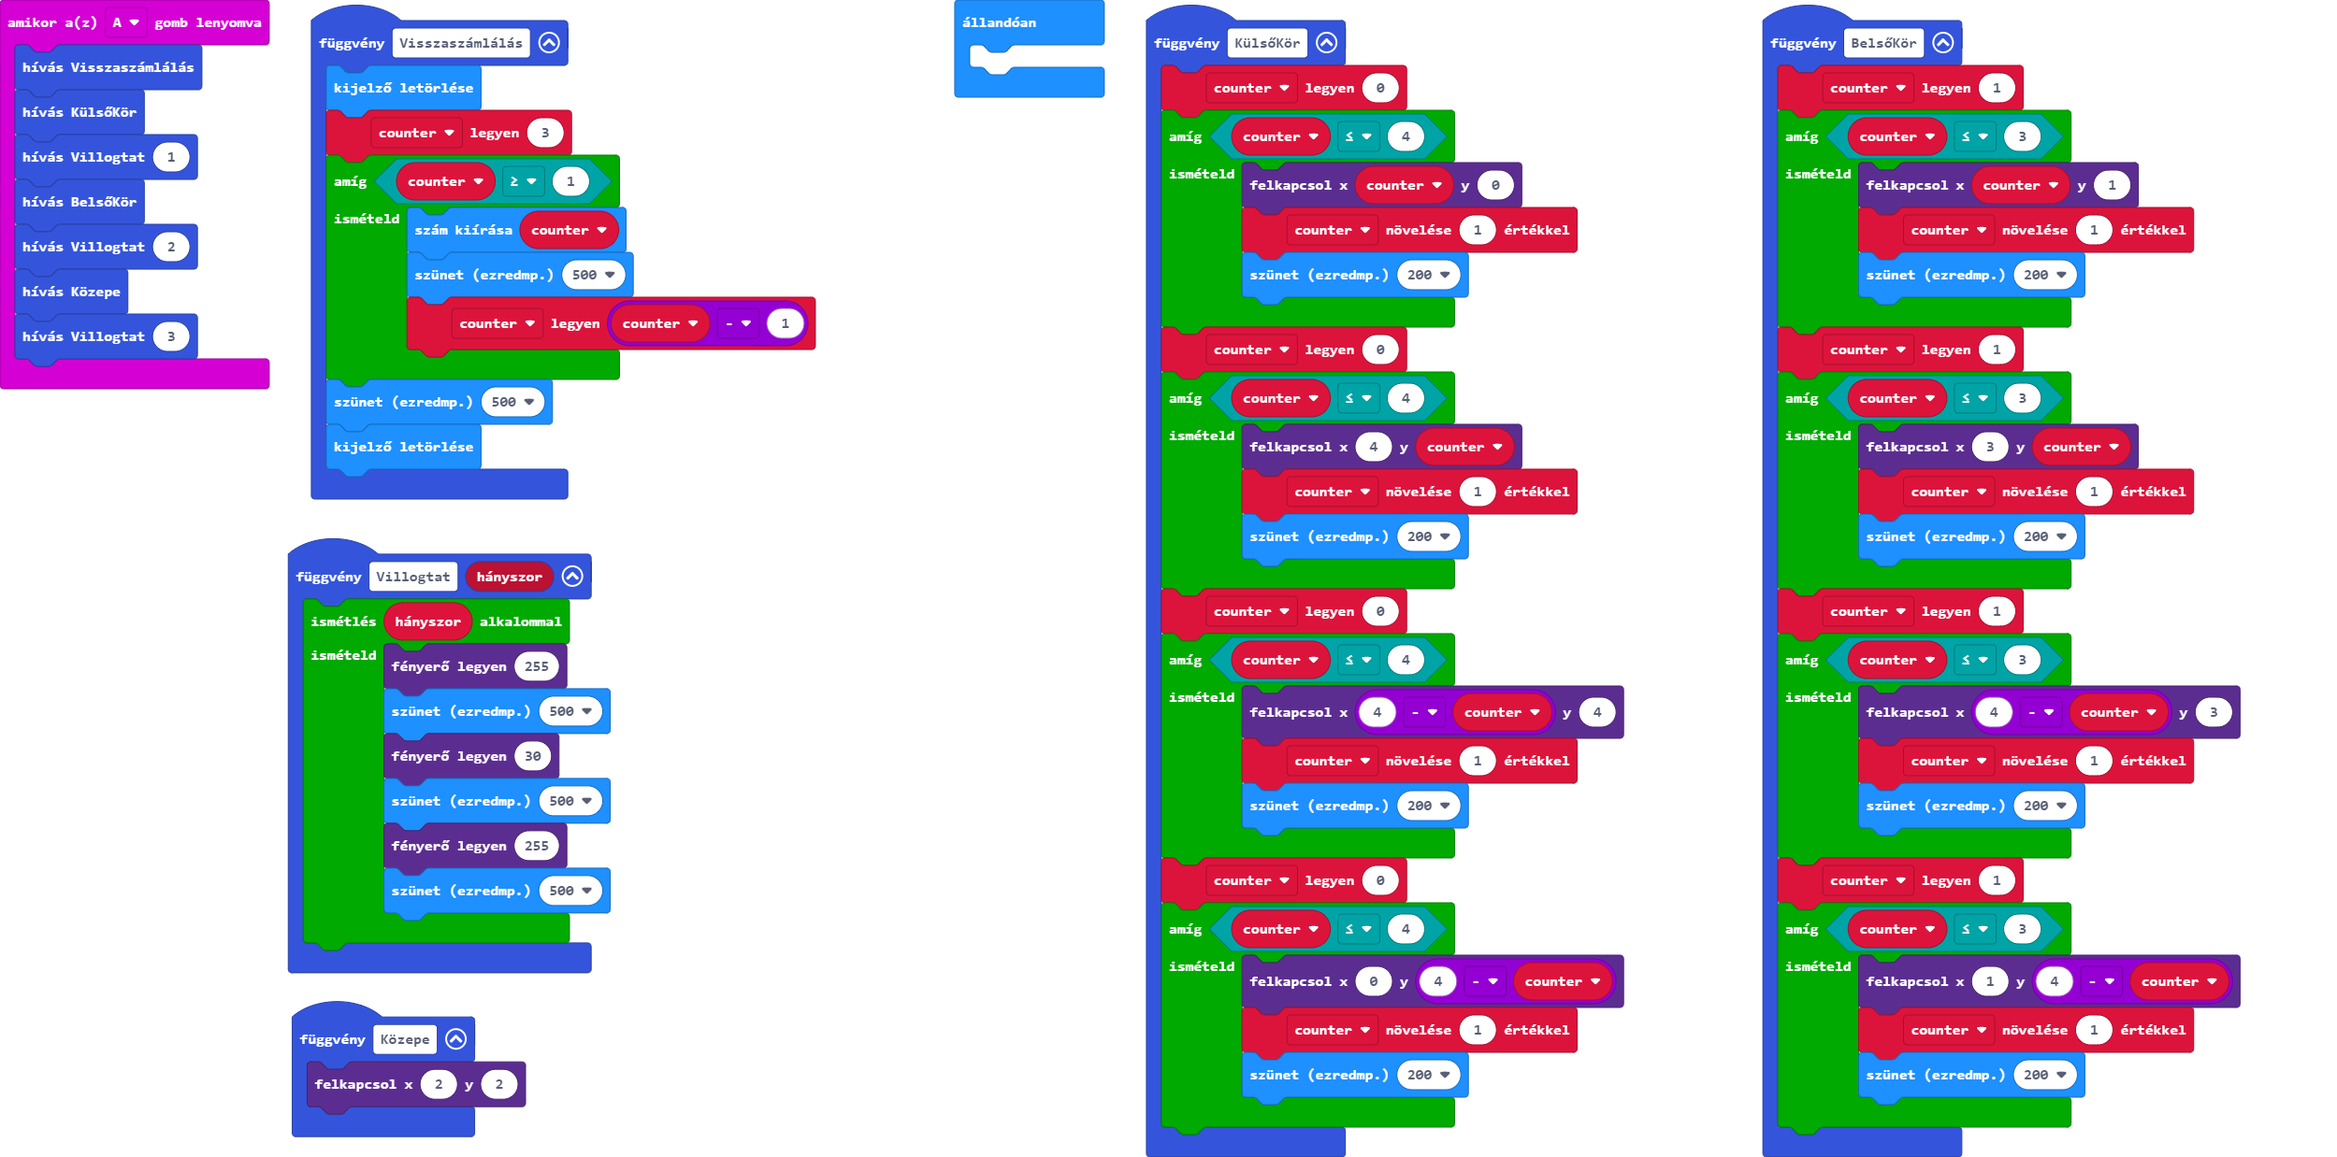
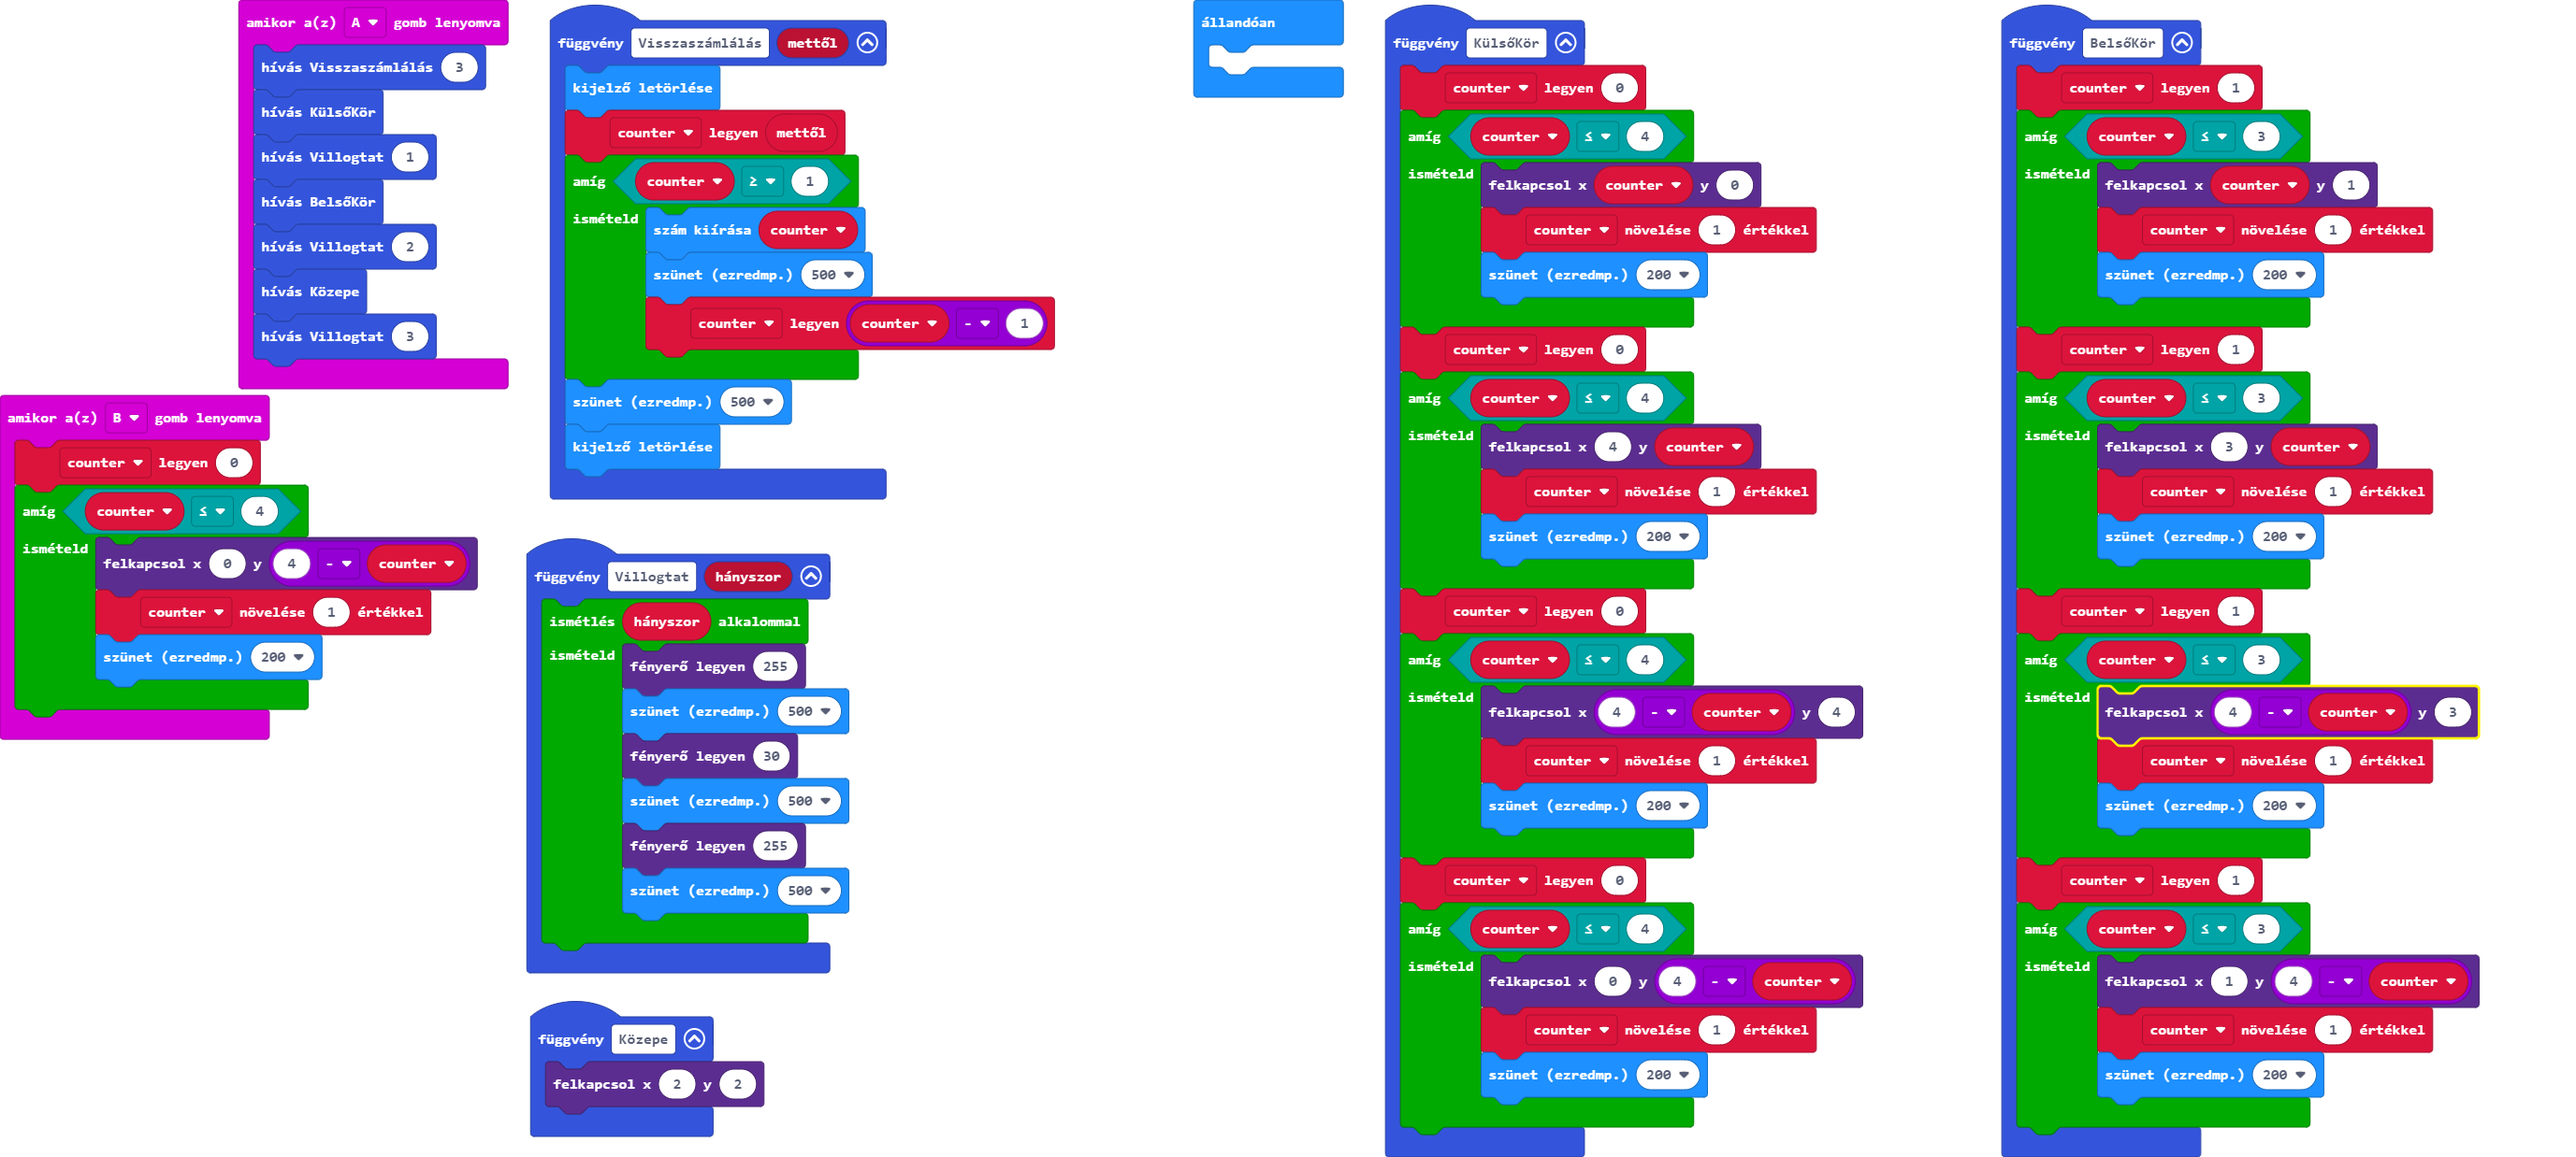
Update main.blocks, main.ts

diff --git a/main.ts b/main.ts
@@ -10,7 +10,7 @@ function Villogtat (hányszor: number) {
     }
 }
 input.onButtonPressed(Button.A, function () {
-    Visszaszámlálás()
+    Visszaszámlálás(3)
     KülsőKör()
     Villogtat(1)
     BelsőKör()
@@ -44,6 +44,14 @@ function KülsőKör () {
         basic.pause(200)
     }
 }
+input.onButtonPressed(Button.B, function () {
+    counter = 0
+    while (counter <= 4) {
+        led.plot(0, 4 - counter)
+        counter += 1
+        basic.pause(200)
+    }
+})
 function BelsőKör () {
     counter = 1
     while (counter <= 3) {
@@ -70,9 +78,9 @@ function BelsőKör () {
         basic.pause(200)
     }
 }
-function Visszaszámlálás () {
+function Visszaszámlálás (mettől: number) {
     basic.clearScreen()
-    counter = 3
+    counter = mettől
     while (counter >= 1) {
         basic.showNumber(counter)
         basic.pause(500)
